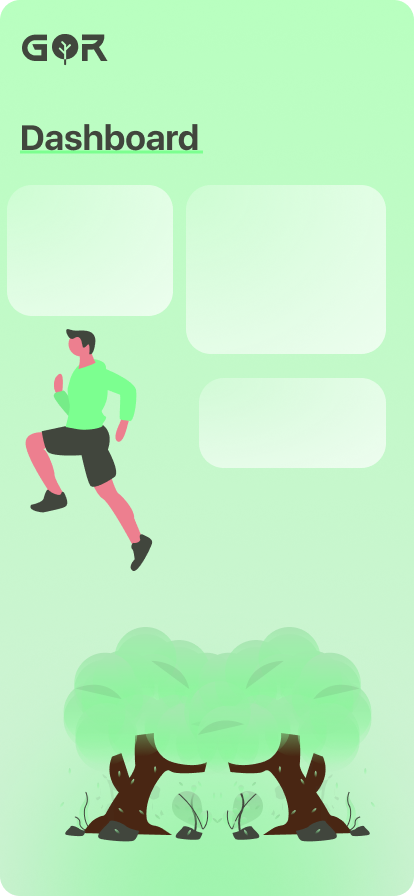
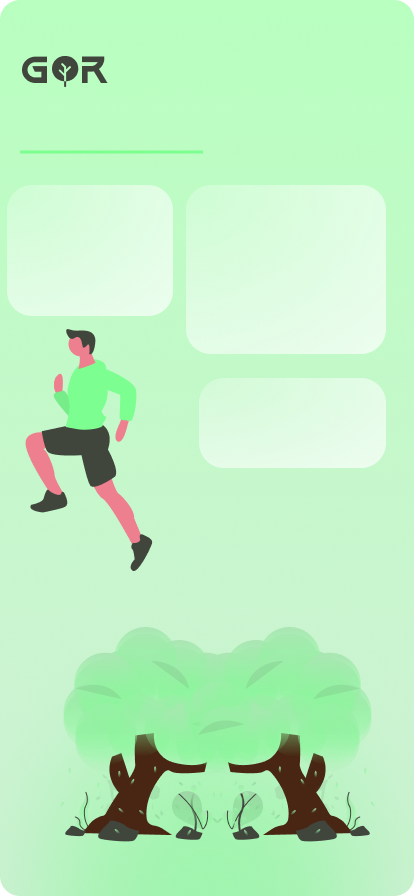
idk
idk

Changed region(s): [[0.058, 0.125, 0.4928, 0.1875], [0.058, 0.0312, 0.2609, 0.0938]]

diff --git a/components/Dashboard.js b/components/Dashboard.js
@@ -15,36 +15,98 @@ export default function Dashboard({navigation}) {
               } source={require('../assets/Images/Dashboard.png')}>
 
             
-            <Text style={{fontFamily: "Roboto", fontSize: 25}}>Leaderboard</Text>
-            <Text style={{fontFamily: "Roboto", fontSize: 25}}>Progress</Text>
-            <Text style={{fontFamily: "Roboto", fontSize: 25}}>Friends List</Text>
+                <Image style={
+                  {position:"relative", 
+                  top:10,
+                  left:-175,
+                  width:25, 
+                  height: 30,
+                  alignItems: 'center',
+                  justifyContent: "center",}} source={require('../assets/Images/leaderboard-icon.png')}>
+                </Image>
 
-            
-            <Pressable style={styles.btnSignin} onPress={() => navigation.navigate("dash")}>
-                <Text style={styles.btnSigninText}>start tracking</Text>
+              <Pressable  onPress={() => navigation.navigate("leader")}>
+                <Text style={{top:0, left:-120,fontFamily: "Roboto", fontSize: 25, color:"#41463D"}}>Leaderboard</Text>
+                <Image style={
+                  {position:"relative", 
+                  top:20,
+                  width: 25, 
+                  height: 25,
+                  alignItems: 'center',
+                  justifyContent: "center",}} source={require('../assets/Images/btn.png')}>
+                </Image> 
+              </Pressable>
+
+              <Image style={
+                  {position:"relative", 
+                  top:-71,
+                  left:10,
+                  width: 30, 
+                  height: 30,
+                  alignItems: 'center',
+                  justifyContent: "center",}} source={require('../assets/Images/Progress.png')}>
+                </Image> 
+              <Text style={{top:-110, left:100,fontFamily: "Roboto", fontSize: 30, color:"#41463D"}}>Progress</Text>
+              
+              <Image style={
+                  {position:"relative", 
+                  top:-105,
+                  left:30,
+                  width: 75, 
+                  height: 97,
+                  alignItems: 'center',
+                  justifyContent: "center",}} source={require('../assets/Images/daily.png')}>
+                </Image> 
+
+                <Image style={
+                  {position:"relative", 
+                  top:-200,
+                  left:130,
+                  width: 75, 
+                  height: 97,
+                  alignItems: 'center',
+                  justifyContent: "center",}} source={require('../assets/Images/Weekly.png')}>
+                </Image> 
+                
+                <Pressable>
+                  <Text style={{top:-156, left:60,fontFamily: "Roboto", fontSize: 20, color:"#41463D"}}>Friend List</Text>
+                  <Image style={
+                    {position:"relative", 
+                    top:-184,
+                    left:170,
+                    width: 44, 
+                    height: 27,
+                    alignItems: 'center',
+                    justifyContent: "center",}} source={require('../assets/Images/FriendsIcon.png')}>
+                  </Image>   
+
+                  <Image style={
+                    {position:"relative", 
+                    top:-170,
+                    left:60,
+                    width: 25, 
+                    height: 25,
+                    alignItems: 'center',
+                    justifyContent: "center",}} source={require('../assets/Images/btn.png')}>
+                  </Image> 
+                </Pressable>
+
+
+            <Pressable style={styles.btnStart} onPress={() => navigation.navigate("dash")}>
+                <Text style={styles.btnStartText}>start tracking</Text>
+                <Image style={
+                    {position:"relative", 
+                    top:-37,
+                    left:150,
+                    width: 25, 
+                    height: 25,
+                    alignItems: 'center',
+                    zIndex:100,
+                    justifyContent: "center",}} source={require('../assets/Images/white-btn.png')}>
+                  </Image> 
             </Pressable>
-            
+          
 
-            <Image style={
-              {position:"relative", 
-              width: 75, 
-              height: 97,
-              alignItems: 'center',
-              justifyContent: "center",
-              top:0 }} source={require('../assets/Images/daily.png')}></Image>
-
-            <Image style={
-              {position:"relative", 
-              width: 75, 
-              height: 97,
-              alignItems: 'center',
-              justifyContent: "center",
-              top:0 }} source={require('../assets/Images/Weekly.png')}></Image>
-
-
-
-
-              <Button title="aosidjaosidjas" onPress={() => navigation.navigate("start")}></Button>
       </ImageBackground>
 
     </View>
@@ -59,21 +121,20 @@ const styles = StyleSheet.create({
     alignItems: 'center',
     justifyContent: 'center',
   },
-  btnSigninText:{
-    paddingTop:10,
-    alignSelf:"center",
-    textAlign:"center",
-    fontSize: 18,
-    fontWeight:"bold",
-    color:"rgba(255, 255, 255, 0.75)"
+  btnStart:{
+    top:-130,
+    left:90
+    
 },
-btnSignin:{
-    top:-90,
-    left:-60,
-    width:120,
+btnStartText:{
+    paddingTop:10,
+    paddingLeft:10,
+    width:190,
     height:50,
     backgroundColor:"#41463D",
-    borderRadius:15
+    fontSize: 18,
+    borderRadius:15,
+    color:"#fff"
 },
 
 

diff --git a/Routes/homeStack.js b/Routes/homeStack.js
@@ -48,9 +48,11 @@ const screens = {
       headerShown: false
     }
   },
+}
+
   
 
-}
+
 
 
 
